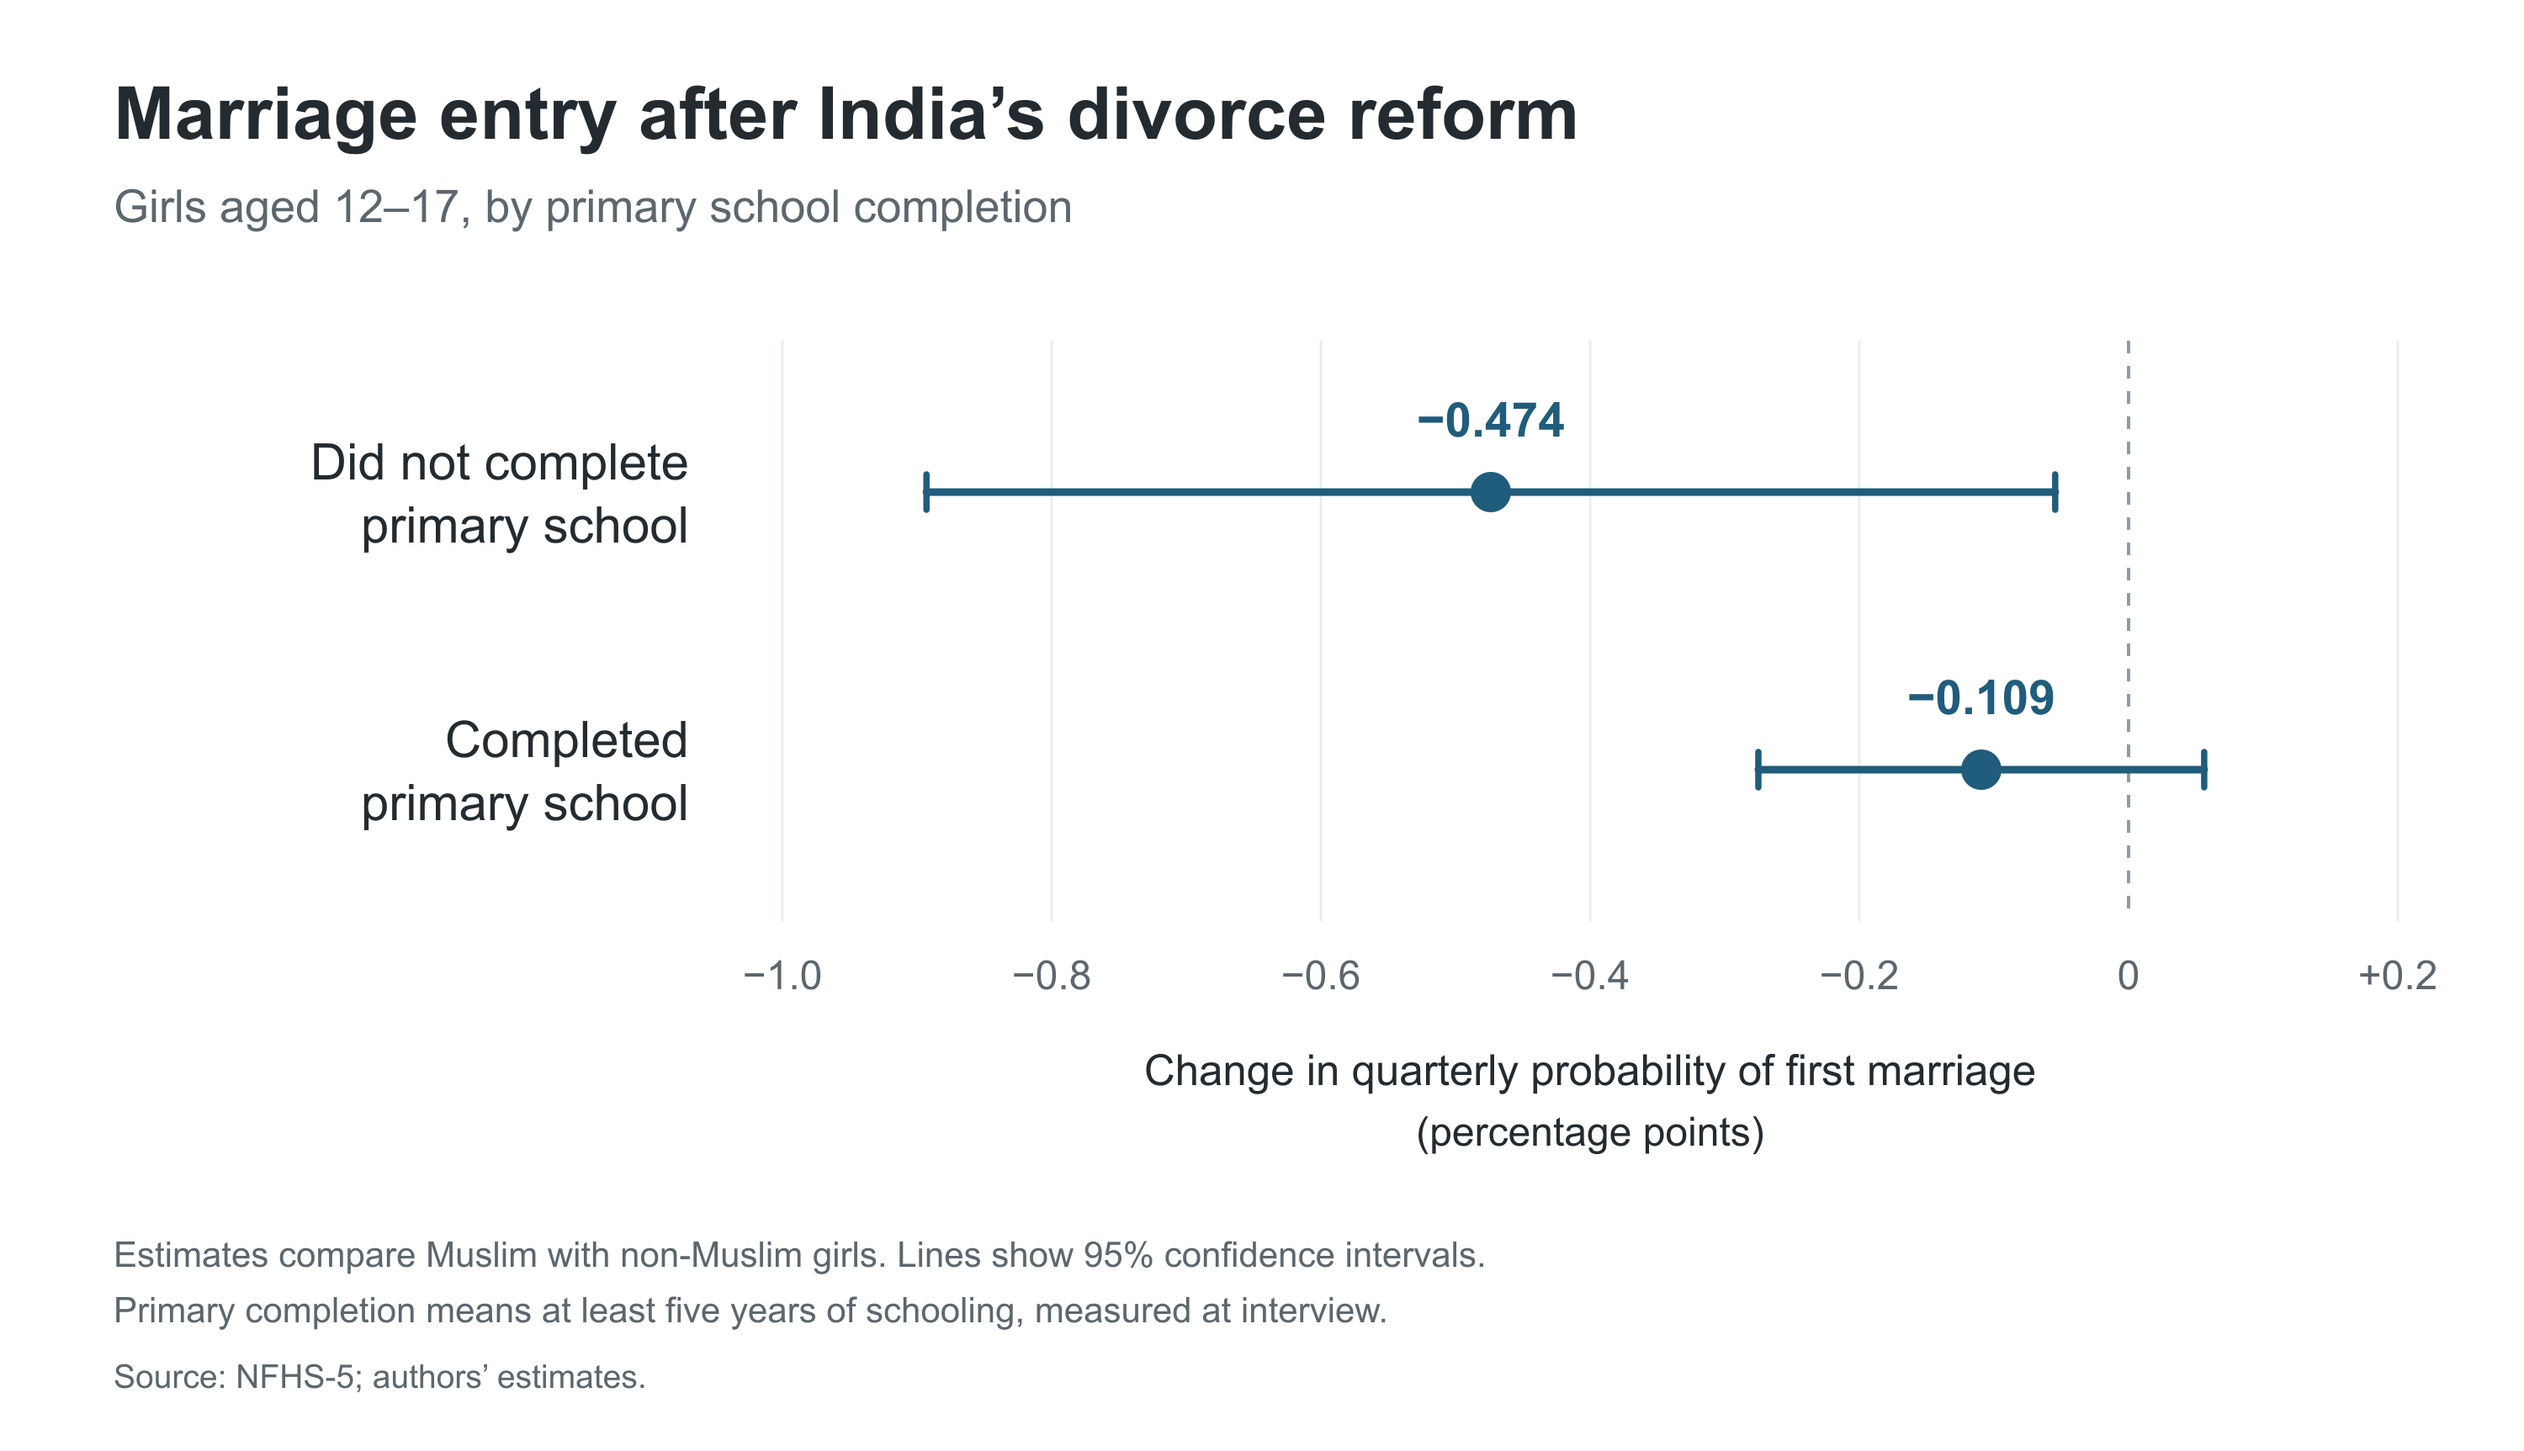
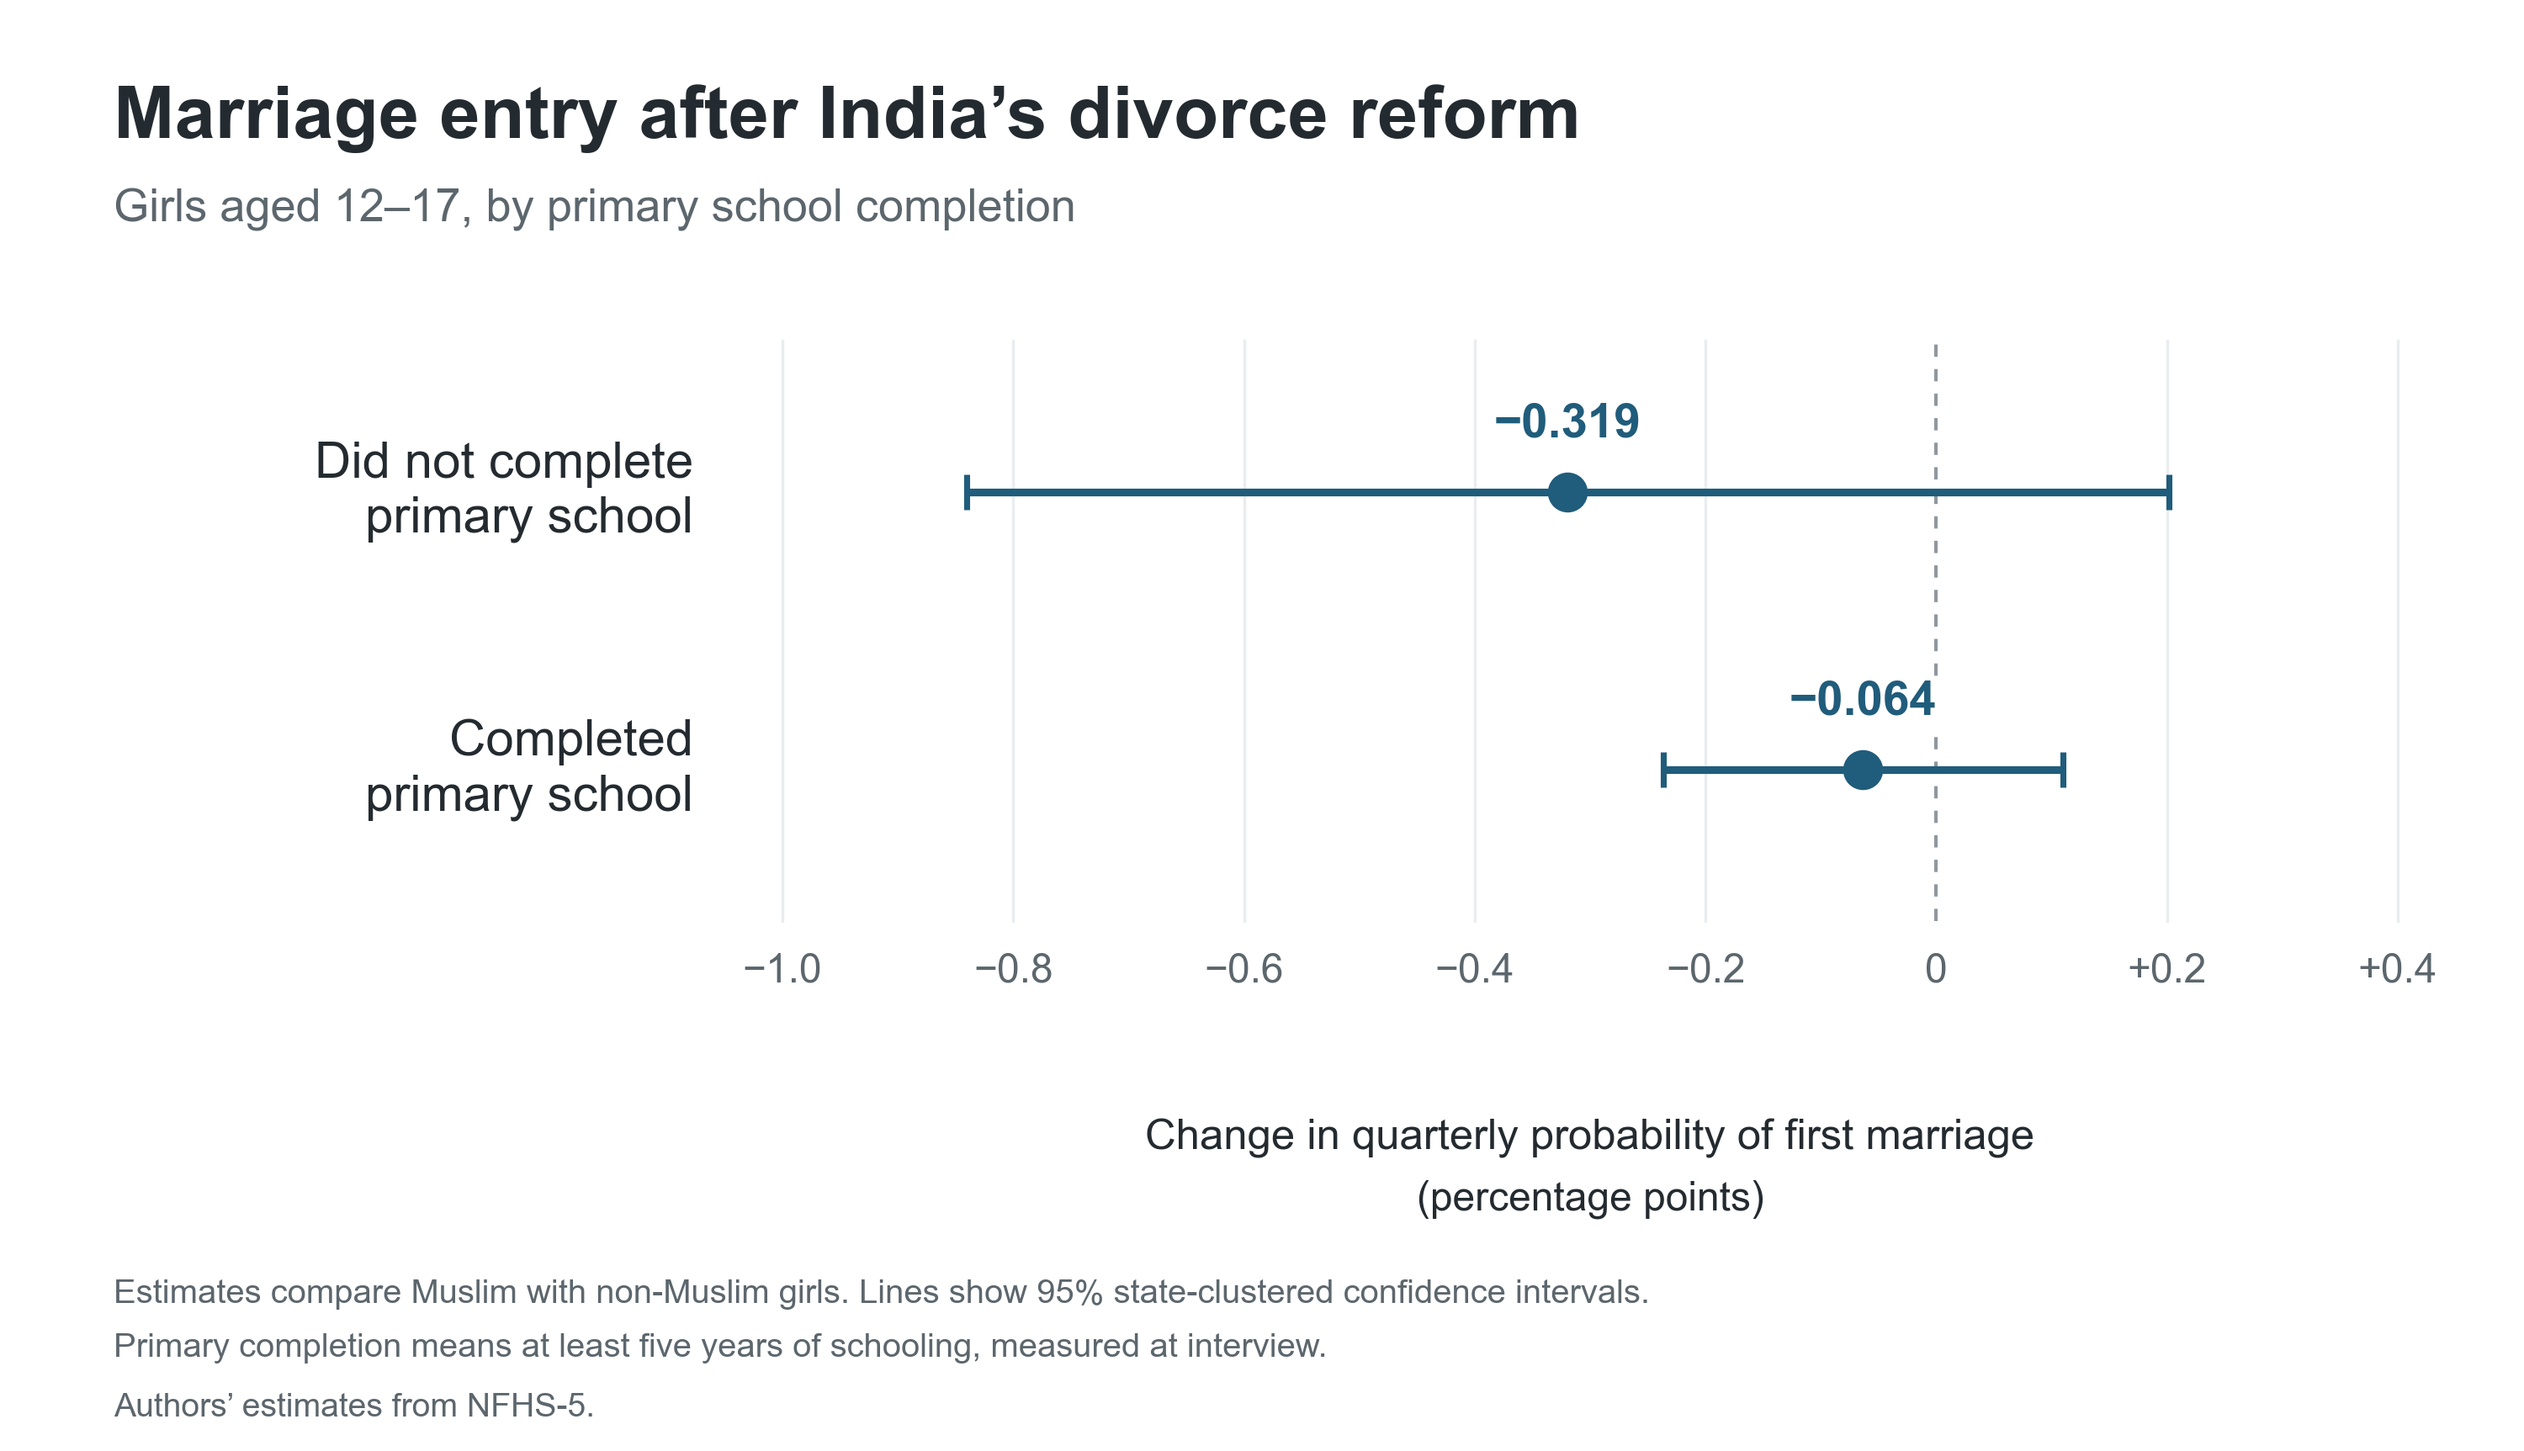
Update the marriage-entry figure and notes

diff --git a/visualizations.html b/visualizations.html
@@ -39,13 +39,13 @@
         <article class="figure-entry shell" id="marriage-entry" aria-labelledby="entry-title">
           <div class="figure-intro">
             <div><p class="eyebrow">01 / Family law · India</p><h2 id="entry-title">Marriage entry</h2></div>
-            <div><p>First-marriage entry falls most clearly among girls aged 12–17 without primary schooling.</p><a class="text-link" href="research.html#divorce">Job market paper <span aria-hidden="true">↗</span></a></div>
+            <div><p>Among girls aged 12–17, the estimated decline is larger for those without primary completion. Both confidence intervals include zero.</p><a class="text-link" href="research.html#divorce">Job market paper <span aria-hidden="true">↗</span></a></div>
           </div>
           <figure>
-            <a class="figure-image-link" href="assets/figures/marriage-entry-schooling.png" target="_blank" rel="noopener noreferrer" aria-label="Open the marriage-entry figure at full size in a new tab">
-              <img src="assets/figures/marriage-entry-schooling.png" width="3000" height="1725" alt="Two estimates with 95% confidence intervals. Without primary schooling: −0.474 percentage points, with an interval below zero. With primary schooling: −0.109 percentage points, with an interval crossing zero.">
+            <a class="figure-image-link" href="assets/figures/marriage-entry-schooling.png?v=20261120" target="_blank" rel="noopener noreferrer" aria-label="Open the marriage-entry figure at full size in a new tab">
+              <img src="assets/figures/marriage-entry-schooling.png?v=20261120" width="3000" height="1725" alt="Estimated change in the quarterly probability of first marriage among Muslim girls relative to non-Muslim girls, ages 12–17, in percentage points. Without primary completion: −0.319 (95% CI −0.840 to 0.201). With primary completion: −0.064 (95% CI −0.237 to 0.110).">
             </a>
-            <figcaption><p class="figure-credit">With Rounak Bose.</p><div class="figure-meta"><details class="figure-notes"><summary>Figure notes</summary><p>Changes in the quarterly probability of first marriage among Muslim girls relative to non-Muslim girls. Primary completion means at least five years of schooling, measured at interview. Source: National Family Health Survey (NFHS-5); authors’ estimates.</p></details><a href="assets/figures/marriage-entry-schooling.png" target="_blank" rel="noopener noreferrer">Full-size figure <span aria-hidden="true">↗</span></a></div></figcaption>
+            <figcaption><p class="figure-credit">With Rounak Bose.</p><div class="figure-meta"><details class="figure-notes"><summary>Figure notes</summary><p>Estimates use first-wedding dates to compare changes in the quarterly probability of first marriage among Muslim and non-Muslim girls. The bars show 95% state-clustered confidence intervals. Primary completion means at least five years of schooling, measured at interview. Estimates are from the November 20, 2026 job market paper and use the National Family Health Survey (NFHS-5).</p></details><a href="assets/figures/marriage-entry-schooling.png?v=20261120" target="_blank" rel="noopener noreferrer">Full-size figure <span aria-hidden="true">↗</span></a></div></figcaption>
           </figure>
         </article>
         <article class="figure-entry shell" id="marriage-timing" aria-labelledby="timing-title">

diff --git a/index.html b/index.html
@@ -52,14 +52,14 @@
         <div class="shell finding-grid">
           <div class="finding-copy">
             <p class="eyebrow">A finding from my job market paper</p>
-            <h2 id="finding-title">Protecting existing marriages can change which new marriages form.</h2>
-            <p>Our findings suggest that restricting husbands’ access to unilateral divorce may increase the survival of existing marriages involving vulnerable women, while making prospective husbands less willing to enter such marriages.</p>
-            <p>Marriage entry declines most clearly among girls aged 12–17 who have not completed primary school.</p>
+            <h2 id="finding-title">How did first-marriage entry change after the reform?</h2>
+            <p>We find suggestive declines in first-marriage entry at ages 12–17 and 18–24 among those without primary school completion.</p>
+            <p>The figure shows the average estimates for girls aged 12–17 by primary school completion.</p>
             <a class="text-link" href="visualizations.html#marriage-entry">Explore the figure <span aria-hidden="true">↗</span></a>
           </div>
           <figure class="finding-figure">
             <a href="visualizations.html#marriage-entry" aria-label="Explore the marriage-entry figure and its explanation">
-              <img src="assets/figures/marriage-entry-schooling.png" width="3000" height="1725" loading="lazy" alt="The estimated change in quarterly first-marriage probability is −0.474 percentage points for girls without primary schooling and −0.109 for those with primary schooling. The latter estimate is not statistically distinguishable from zero.">
+              <img src="assets/figures/marriage-entry-schooling.png?v=20261120" width="3000" height="1725" loading="lazy" alt="Estimated change in the quarterly probability of first marriage among Muslim girls relative to non-Muslim girls, ages 12–17, in percentage points. Without primary completion: −0.319 (95% CI −0.840 to 0.201). With primary completion: −0.064 (95% CI −0.237 to 0.110).">
             </a>
             <figcaption>From my job market paper with Rounak Bose. Estimates compare Muslim with non-Muslim girls following the reform.</figcaption>
           </figure>

diff --git a/README.md b/README.md
@@ -26,9 +26,9 @@ The site is self-contained: `index.html` is the homepage, `research.html`, `teac
 
 ## Research figures and teaching evaluations
 
-- `assets/figures/marriage-entry-schooling.png`: JMP blog figure, with Rounak Bose.
+- `assets/figures/marriage-entry-schooling.png`: Marriage-entry estimates for ages 12–17 by primary completion, with Rounak Bose. The point estimates and state-clustered 95% confidence intervals come from the November 20, 2026 job market paper’s replication output.
 - `assets/figures/inheritance-marriage-timing.png`: pooled anticipation-sample marriage-timing figure, October 20, 2026.
 - `assets/figures/inheritance-land-control.svg` and its mobile variant: paired-point comparison of descriptive involvement in inherited land among all recipients. Restyled October 21, 2026 from the October 20 person-level replication summary; PNG downloads are also included. All six categories and twelve percentages match the original aggregate results (392 usable responses for women, 913 for men).
 - Course evaluation PDFs are split by course: ECON 103 (Delaware, Winter 2026) and ECON 240 (LUMS, Summer 2025). They preserve the original evaluation pages, including comments and scale notes.
 
-The marriage-entry and marriage-timing images are unchanged copies of research outputs. The land-control chart is redrawn from verified aggregate counts; its desktop and phone layouts use the same data. Keep source notes, co-author attribution, sample definitions, and descriptive image alternatives in sync when replacing figures. The job market paper is hosted at `assets/papers/triple-talaq.pdf`; its research-page abstract matches the posted manuscript.
+The marriage-timing image is an unchanged copy of a research output. The land-control chart is redrawn from verified aggregate counts; its desktop and phone layouts use the same data. Keep source notes, co-author attribution, sample definitions, and descriptive image alternatives in sync when replacing figures. The job market paper is hosted at `assets/papers/triple-talaq.pdf`; its research-page abstract matches the posted manuscript.
